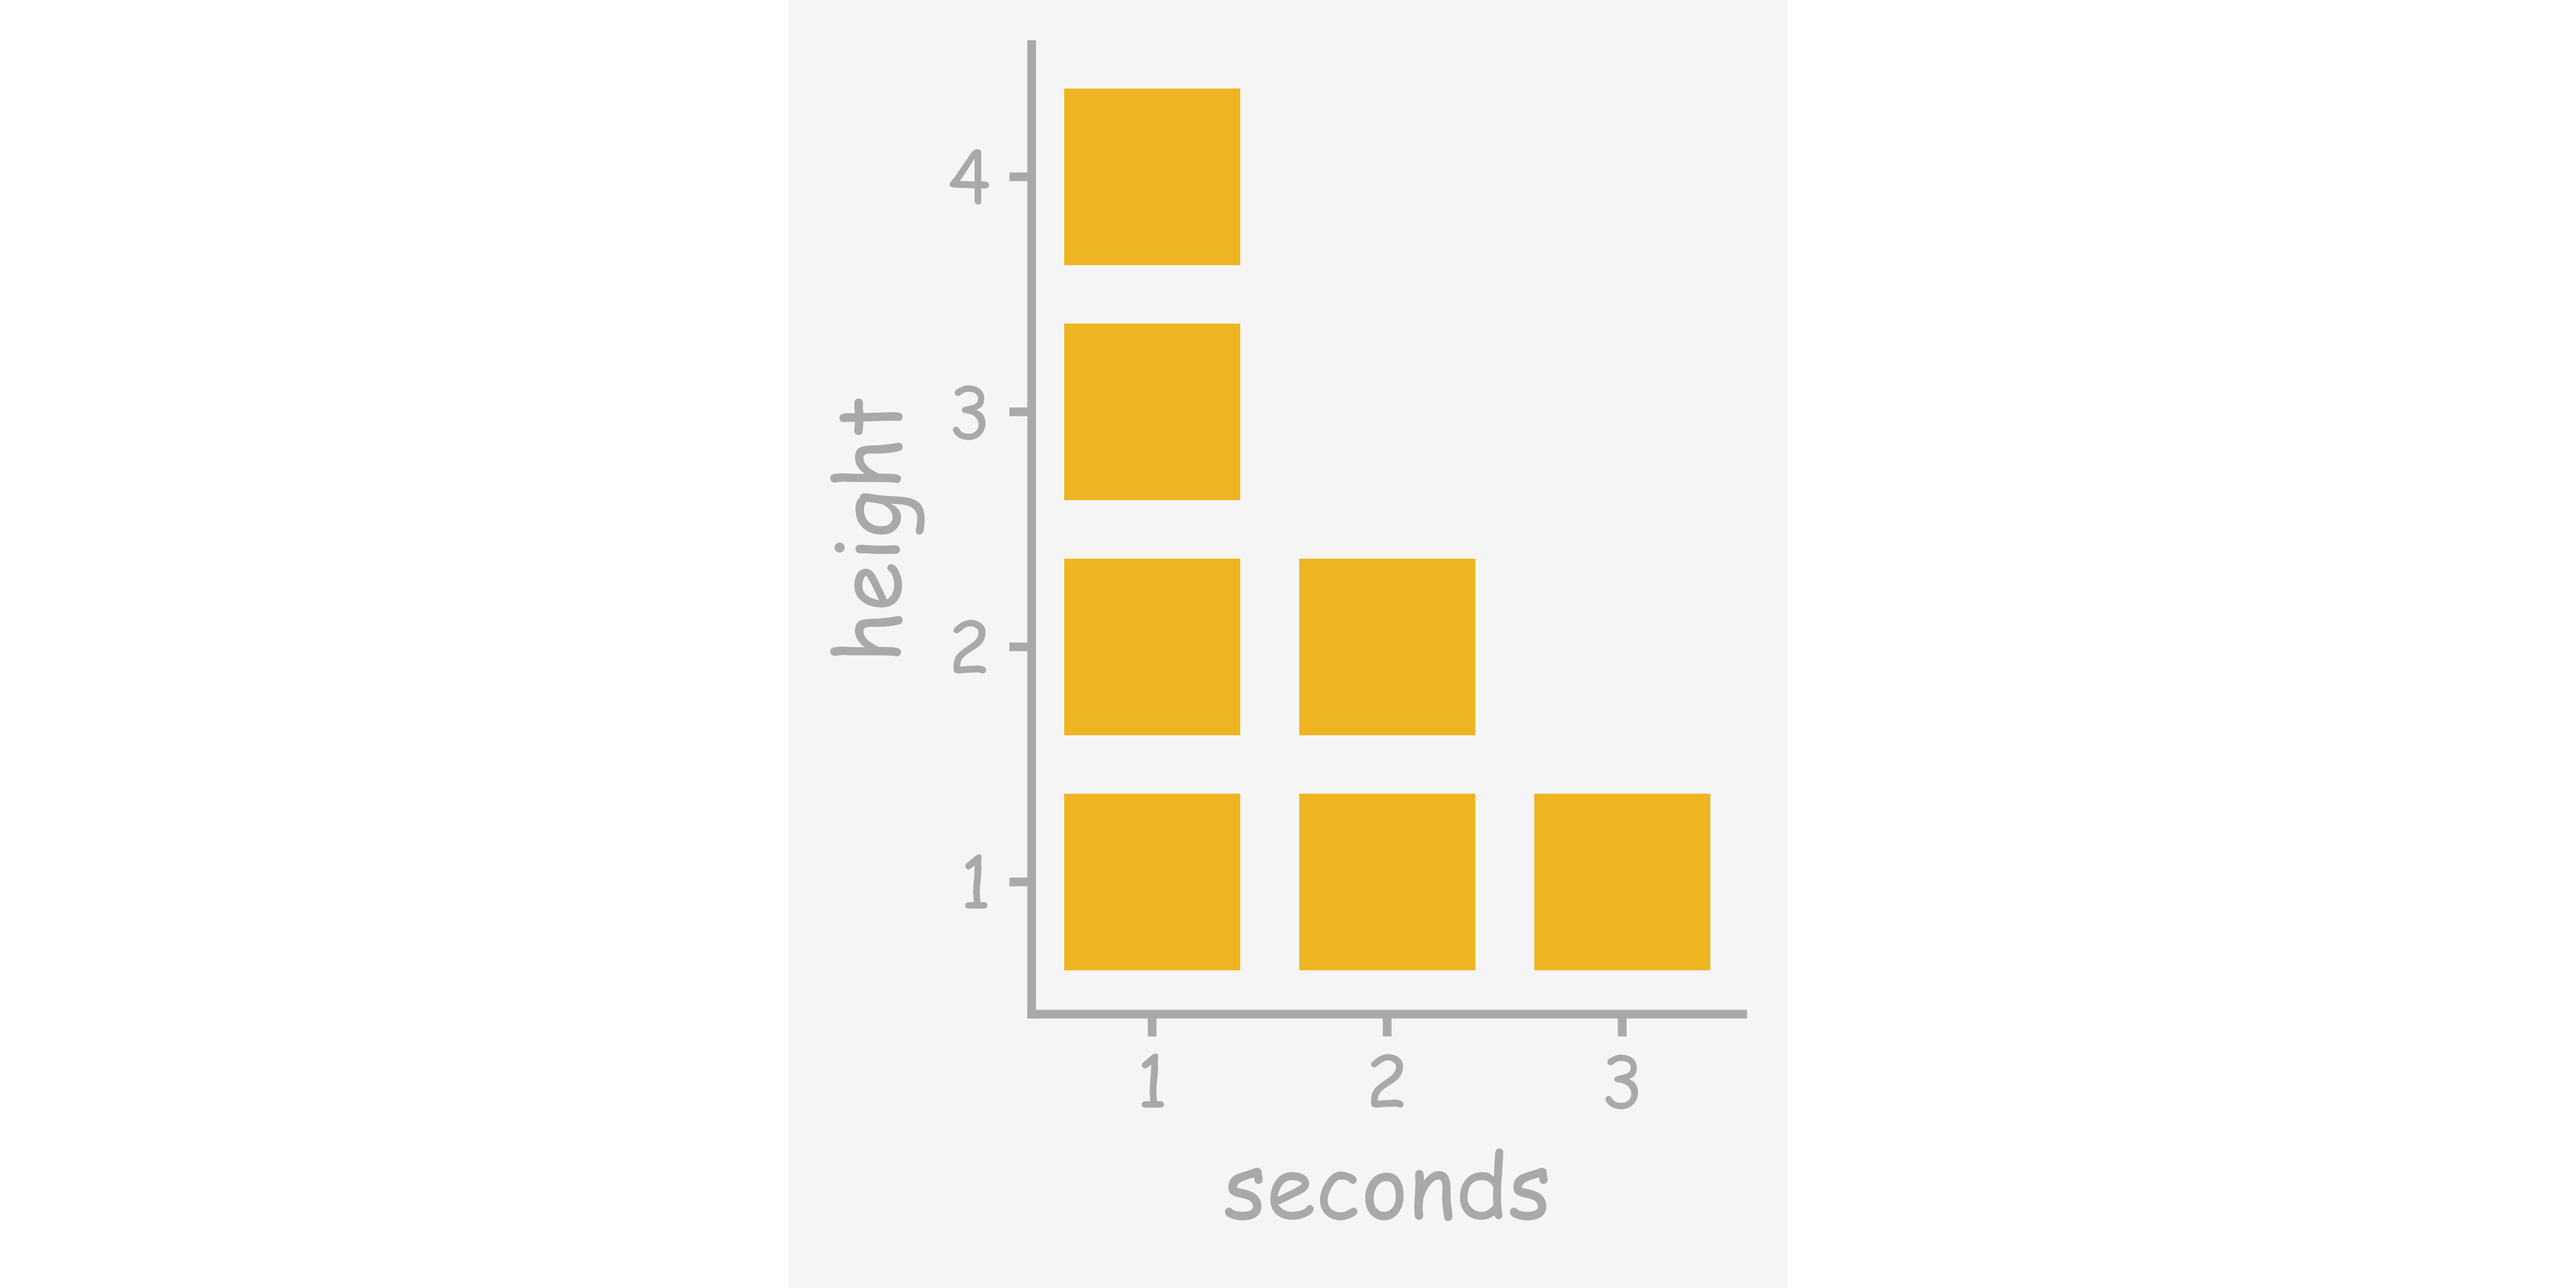
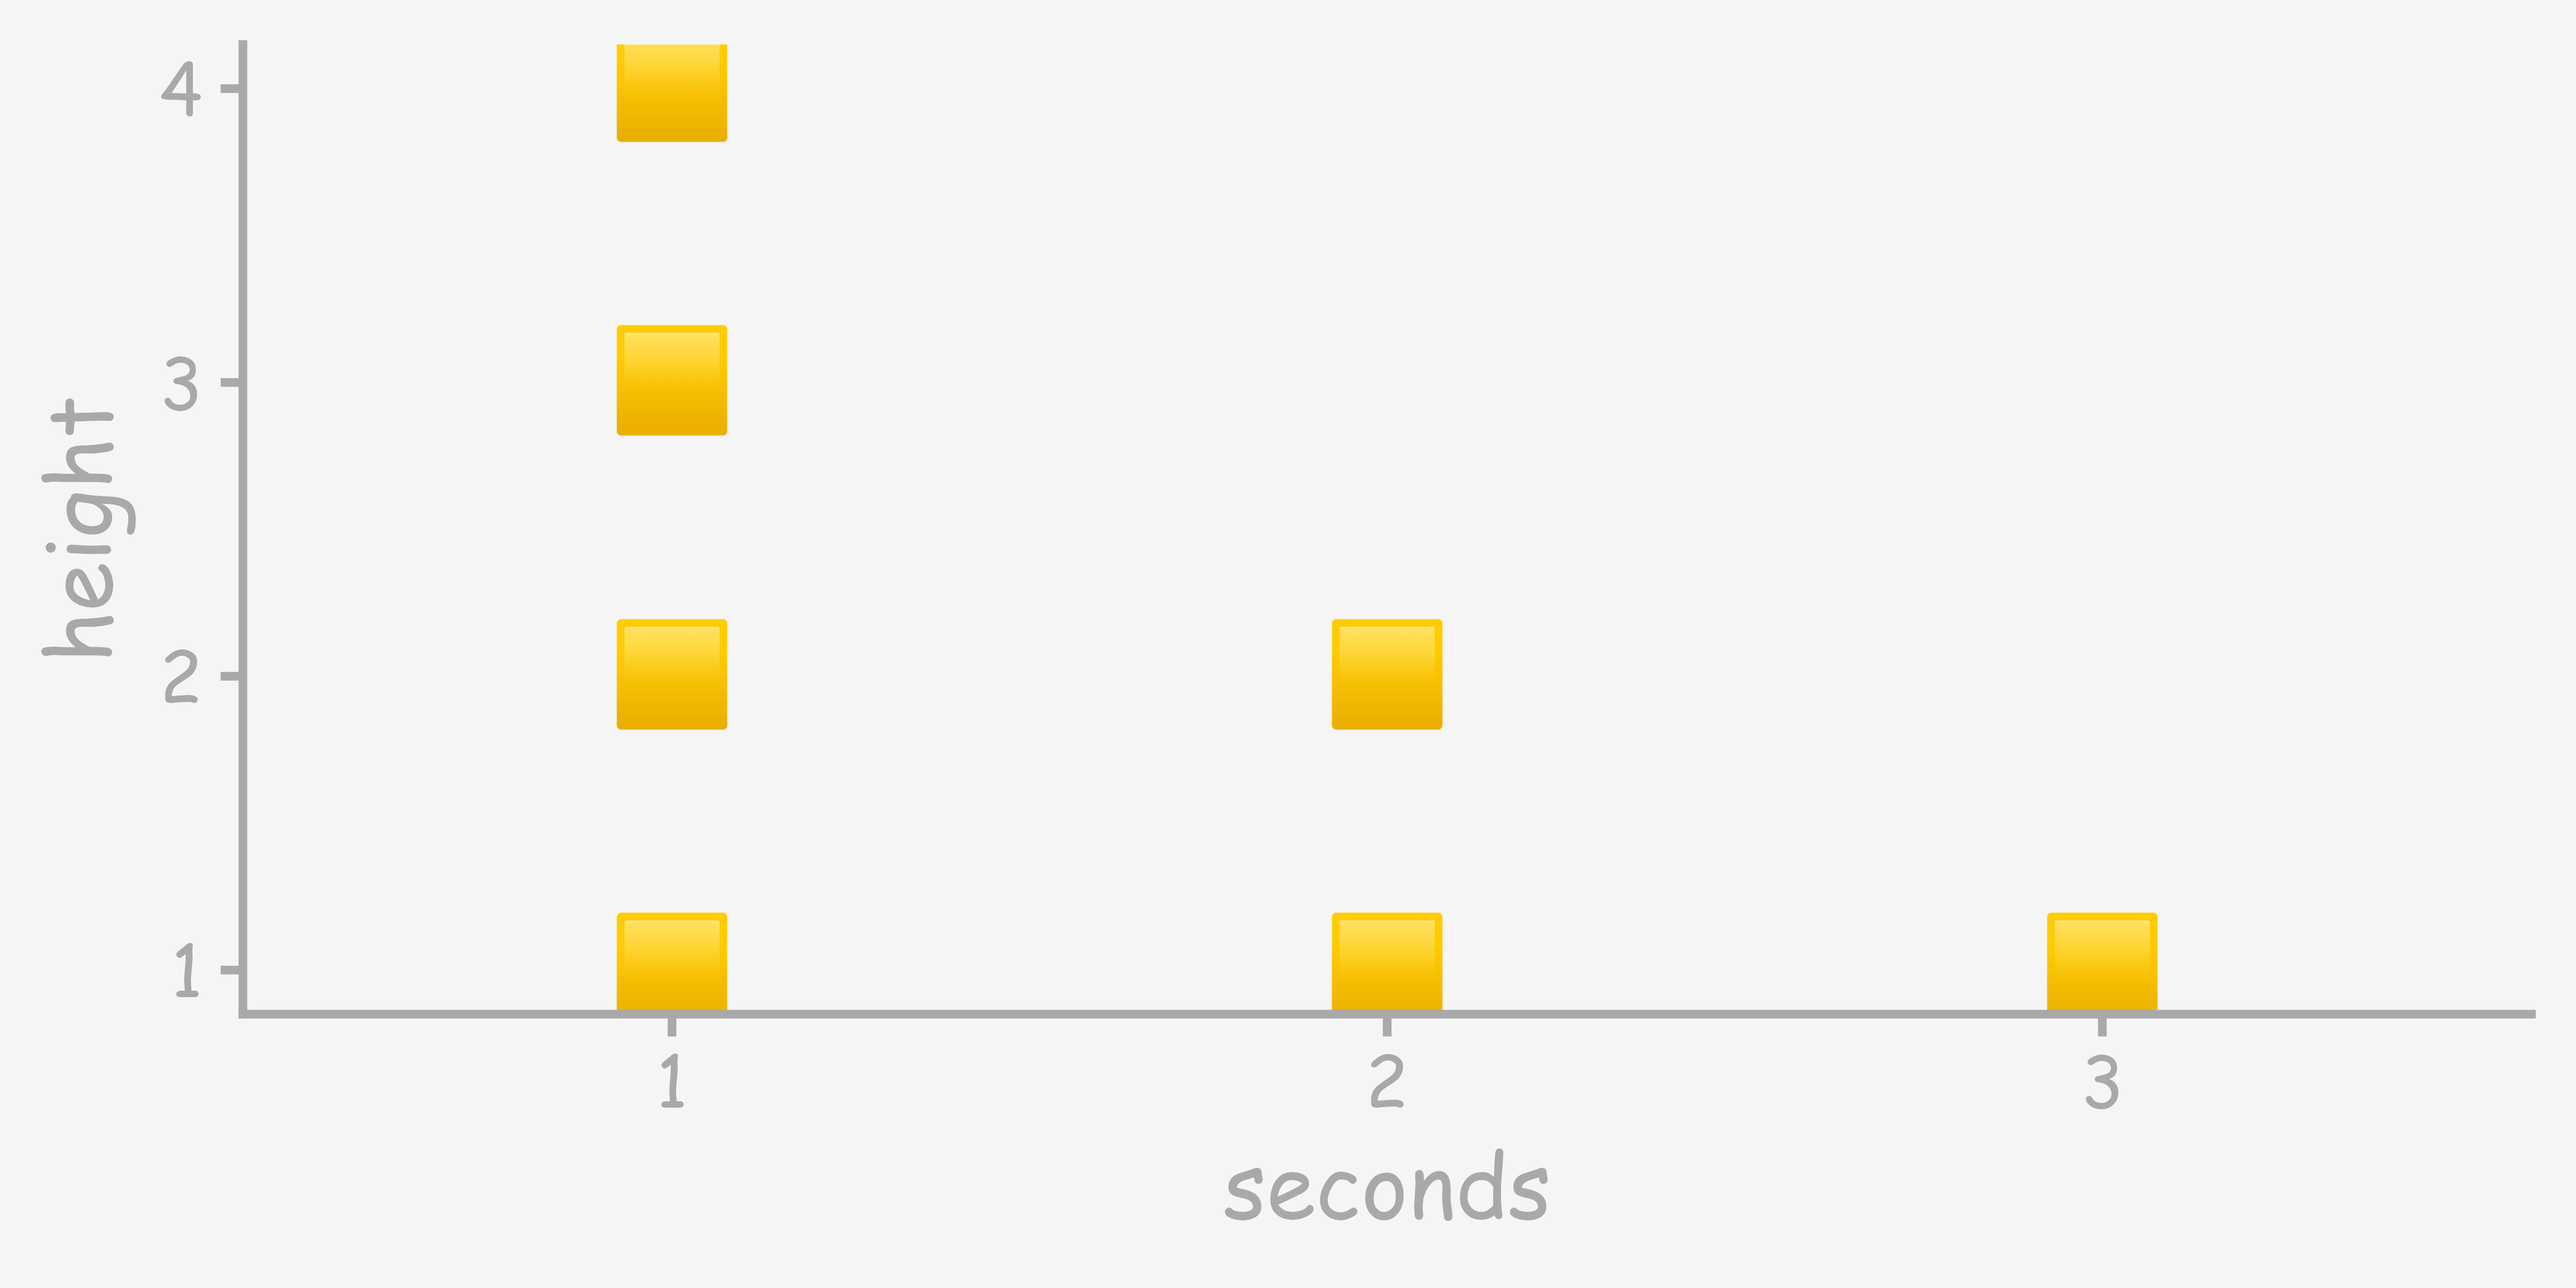
two ways to plot the fries data?

diff --git a/README.md b/README.md
@@ -370,17 +370,20 @@ last_plot() +
 
 ``` r
 real_fries_table <- data.frame(id_fry = 1:7, 
-                               seconds = c(1, 1, 2, 1, 2, 3, 1),
+                               seconds = c(1, 1, 2, 1, 2, 3, 1) |> as.character(),
                                height =  c(1, 2, 1, 3, 2, 1, 4),
-                               color = rep("goldenrod2", 7))
+                               item = rep("🟨",7))
 
 
 all_fries_table <- data.frame(id_fry = 1:10, 
-                              seconds = c(1, 1, 2, 1, 2, 3, 1, 1,2,3),
+                              seconds = c(1, 1, 2, 1, 2, 3, 1, 1,2,3)  |> as.character(),
                               height =  c(1, 2, 1, 3, 2, 1, 4, 5, 3, 2),
-                              color = c(rep("goldenrod2", 7), 
-                                        rep("darkseagreen4", 3))
+                              item = c(rep("🟨", 7), 
+                                        rep("🟩", 3),
+                              ind_real = c())
                               )
+
+imaginary_fries_table <- all_fries_table |> slice(8:10)
 ```
 
 ``` r
@@ -393,14 +396,22 @@ chart_tile <- function(...){
   )
   
 }
+
+
+set_color <- function(color){
+  
+  aes(fill = I(color |> alpha(.5)) , color = I(color))
+  
+}
 ```
 
 ``` r
 real_fries_table |>
   ggkids() + 
-  use(x = seconds, y = height) + 
-  chart_tile() + 
-  use_color(color |> I())
+  use(x = seconds, 
+      y = height, 
+      picture = item) + 
+  chart_point() 
 ```
 
 <img src="man/figures/README-unnamed-chunk-11-1.png" width="100%" />
@@ -411,6 +422,28 @@ last_plot() %+% all_fries_table
 ```
 
 <img src="man/figures/README-unnamed-chunk-11-2.png" width="100%" />
+
+``` r
+
+real_fries_table |>
+  ggkids() + 
+  use(x = seconds, y = height) + 
+  chart_tile() + 
+  set_color("goldenrod2")
+```
+
+<img src="man/figures/README-unnamed-chunk-11-3.png" width="100%" />
+
+``` r
+
+last_plot() +
+  chart_tile(
+    data = imaginary_fries_table,
+    set_color("darkseagreen4")
+    )
+```
+
+<img src="man/figures/README-unnamed-chunk-11-4.png" width="100%" />
 
 # A jungle bar chart… ?
 
@@ -472,7 +505,7 @@ ggprop.test:::compute_group_bricks
 #>     data %>% dplyr::mutate(row = row_number()) %>% dplyr::mutate(y = row - 
 #>         0.5) %>% dplyr::mutate(width = width)
 #> }
-#> <bytecode: 0x1677c9170>
+#> <bytecode: 0x13b575428>
 #> <environment: namespace:ggprop.test>
 
 jungle_table <- data.frame(tree = paste0("🌴#", 1:5), 
